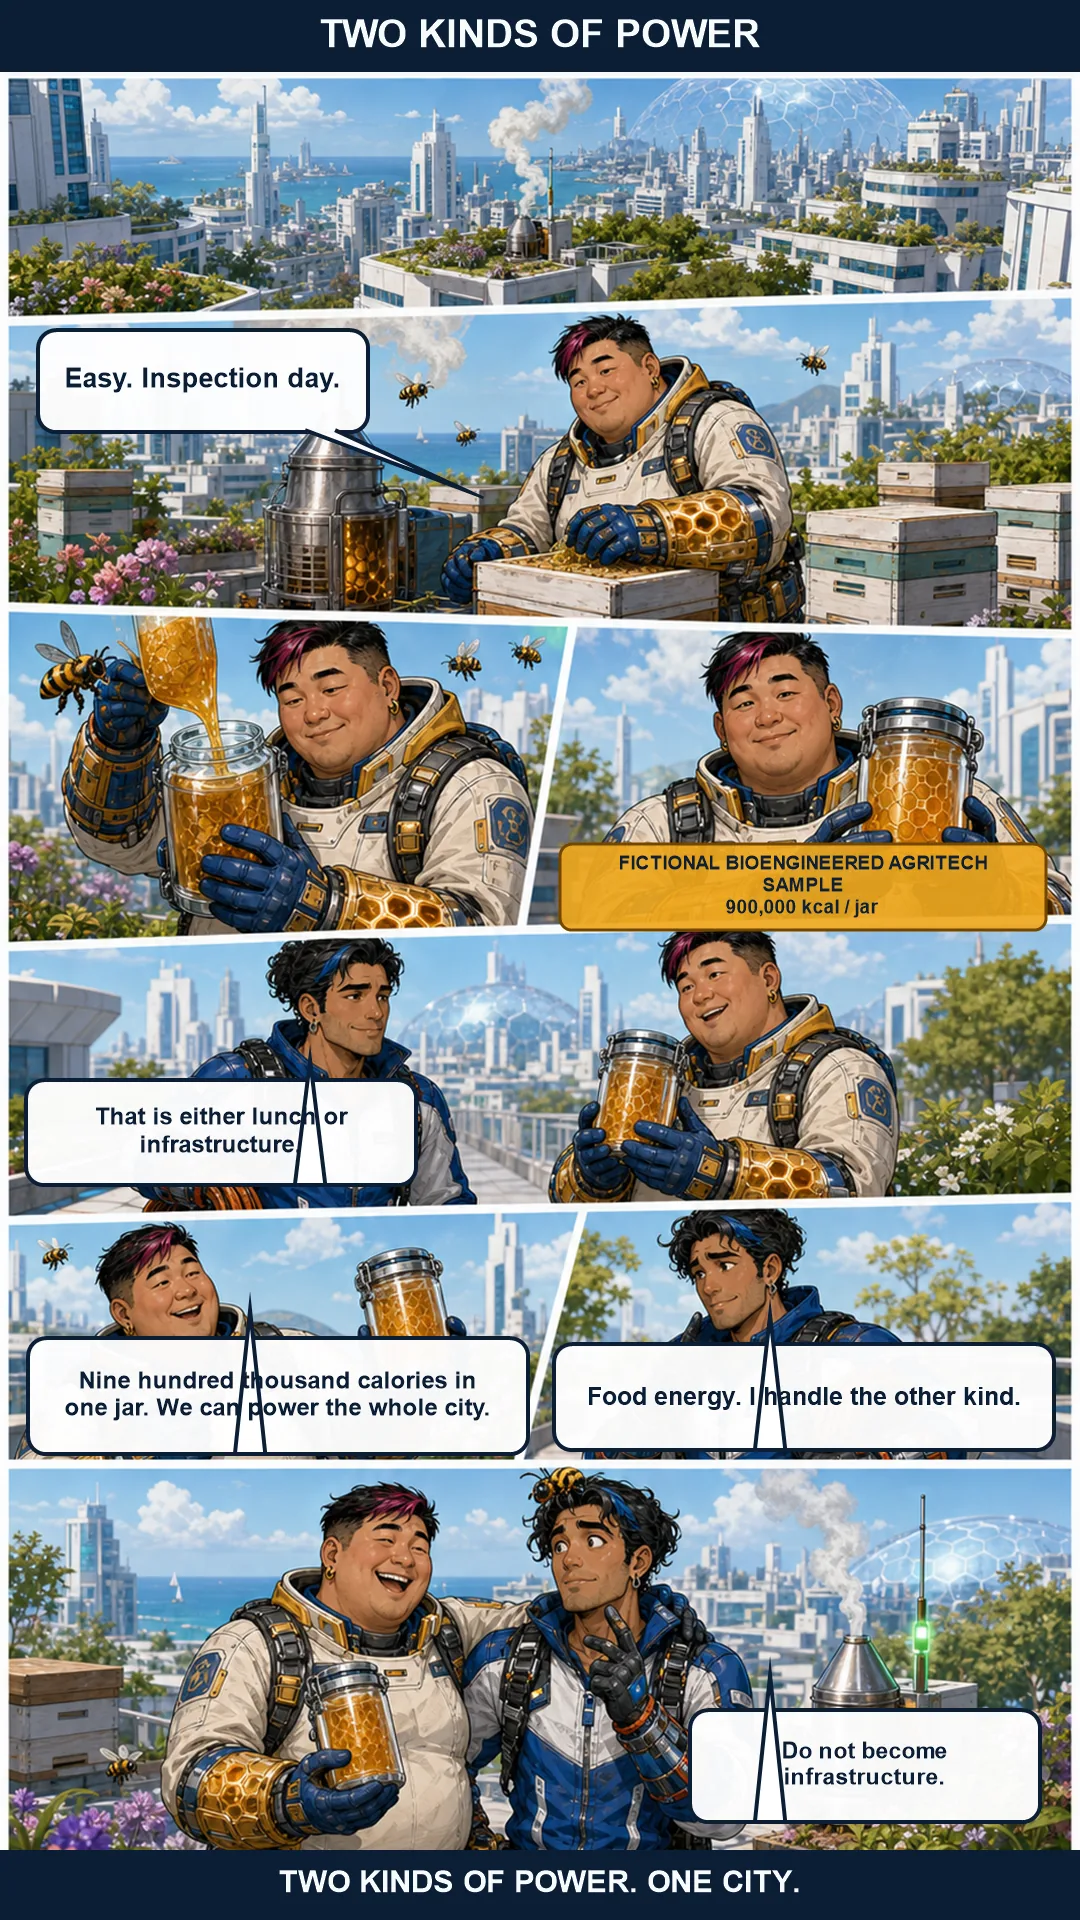
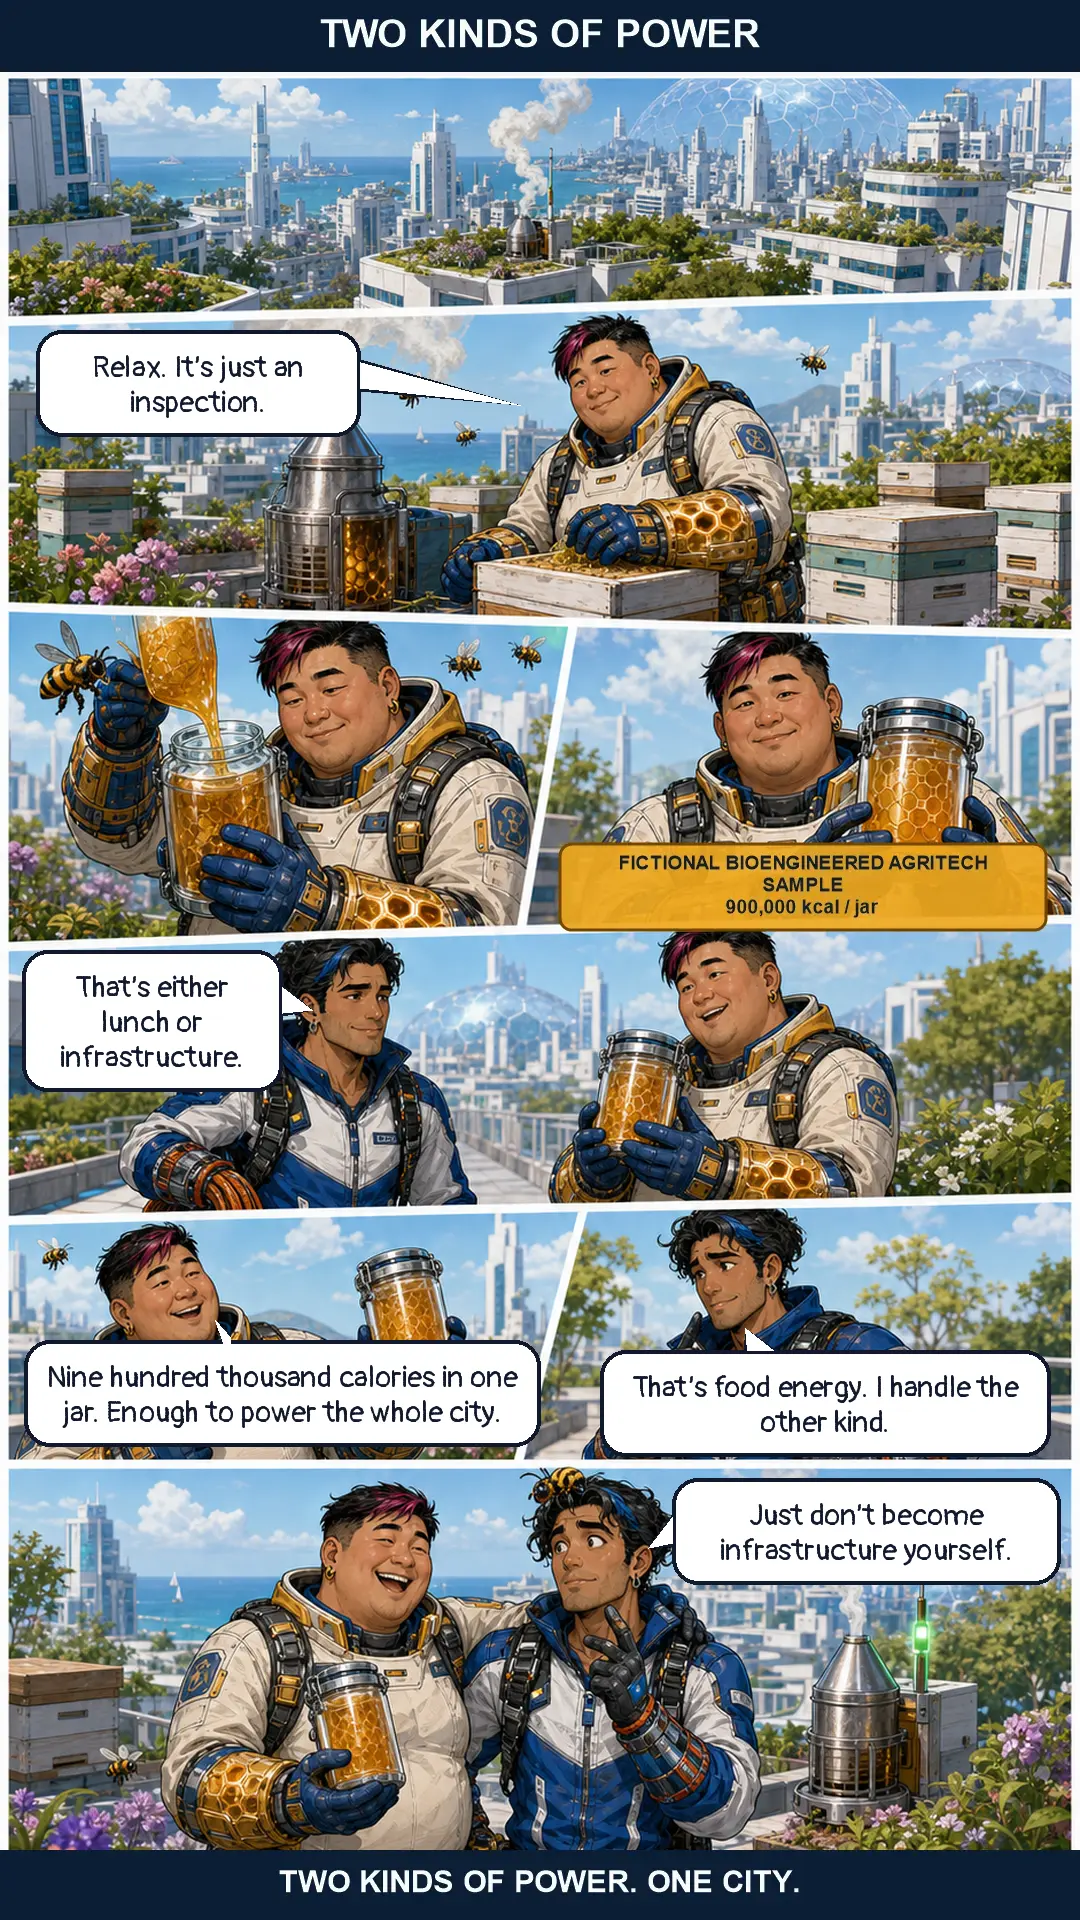
feat(site): updated comics + new Seven Seconds comic
- Replace two-kinds-*.webp: re-lettered master, bubble tails no longer
  overlap faces (fixed by comic thread)
- Replace prologue with two-page version: prologue-1 (clean layout v3)
  and new prologue-2 "Promise" added as second page
- Add new comic "Seven Seconds" (RU+EN): crane vs. street food cart,
  Mason and a street cook, 7 seconds apart

Claude-Session: https://claude.ai/code/session_01Edi4FGKeDc1p6trmCJcoeg

diff --git a/site/content.ts b/site/content.ts
@@ -365,7 +365,7 @@ export const COMICS: Comic[] = [
     series: { ru: 'Пролог', en: 'Prologue' },
     cast: { ru: 'Линейщик, мальчик-фанат', en: 'Lineman, a young fan' },
     blurb: { ru: 'Мальчик вызывает службу спасения ради автографа. Город любит своих героев, а внизу HeroOut уже выращивает им врагов.', en: 'A boy calls the rescue service just to get an autograph. The city loves its heroes, while deep below HeroOut is already growing their enemies.' },
-    pages: { ru: ['comics/prologue-ru.webp'], en: ['comics/prologue-en.webp'] },
+    pages: { ru: ['comics/prologue-1-ru.webp', 'comics/prologue-2-ru.webp'], en: ['comics/prologue-1-en.webp', 'comics/prologue-2-en.webp'] },
   },
   {
     id: 'nothing-happened',
@@ -391,6 +391,15 @@ export const COMICS: Comic[] = [
     blurb: { ru: 'Банка мёда на 900 000 калорий и электрик, который отвечает за другую энергию.', en: 'A 900,000-calorie jar of honey and an electrician who handles the other kind of power.' },
     pages: { ru: ['comics/two-kinds-ru.webp'], en: ['comics/two-kinds-en.webp'] },
   },
+  {
+    id: 'seven-seconds',
+    title: { ru: 'Семь секунд', en: 'Seven Seconds' },
+    series: { ru: 'До сирен', en: 'Before the Sirens' },
+    cast: { ru: 'Каменщик, уличный повар', en: 'Mason, a street cook' },
+    blurb: { ru: 'Тяжёлый кран падает на хот-дожную холодную цепь. Семь секунд между краном и дружиной.', en: 'A heavy crane falls toward a food cart’s cold chain. Seven seconds between the crane and a friendship.' },
+    pages: { ru: ['comics/seven-seconds-ru.webp'], en: ['comics/seven-seconds-en.webp'] },
+  },
+
   {
     id: 'cat-record',
     title: { ru: 'О кошке', en: 'About the Cat' },
